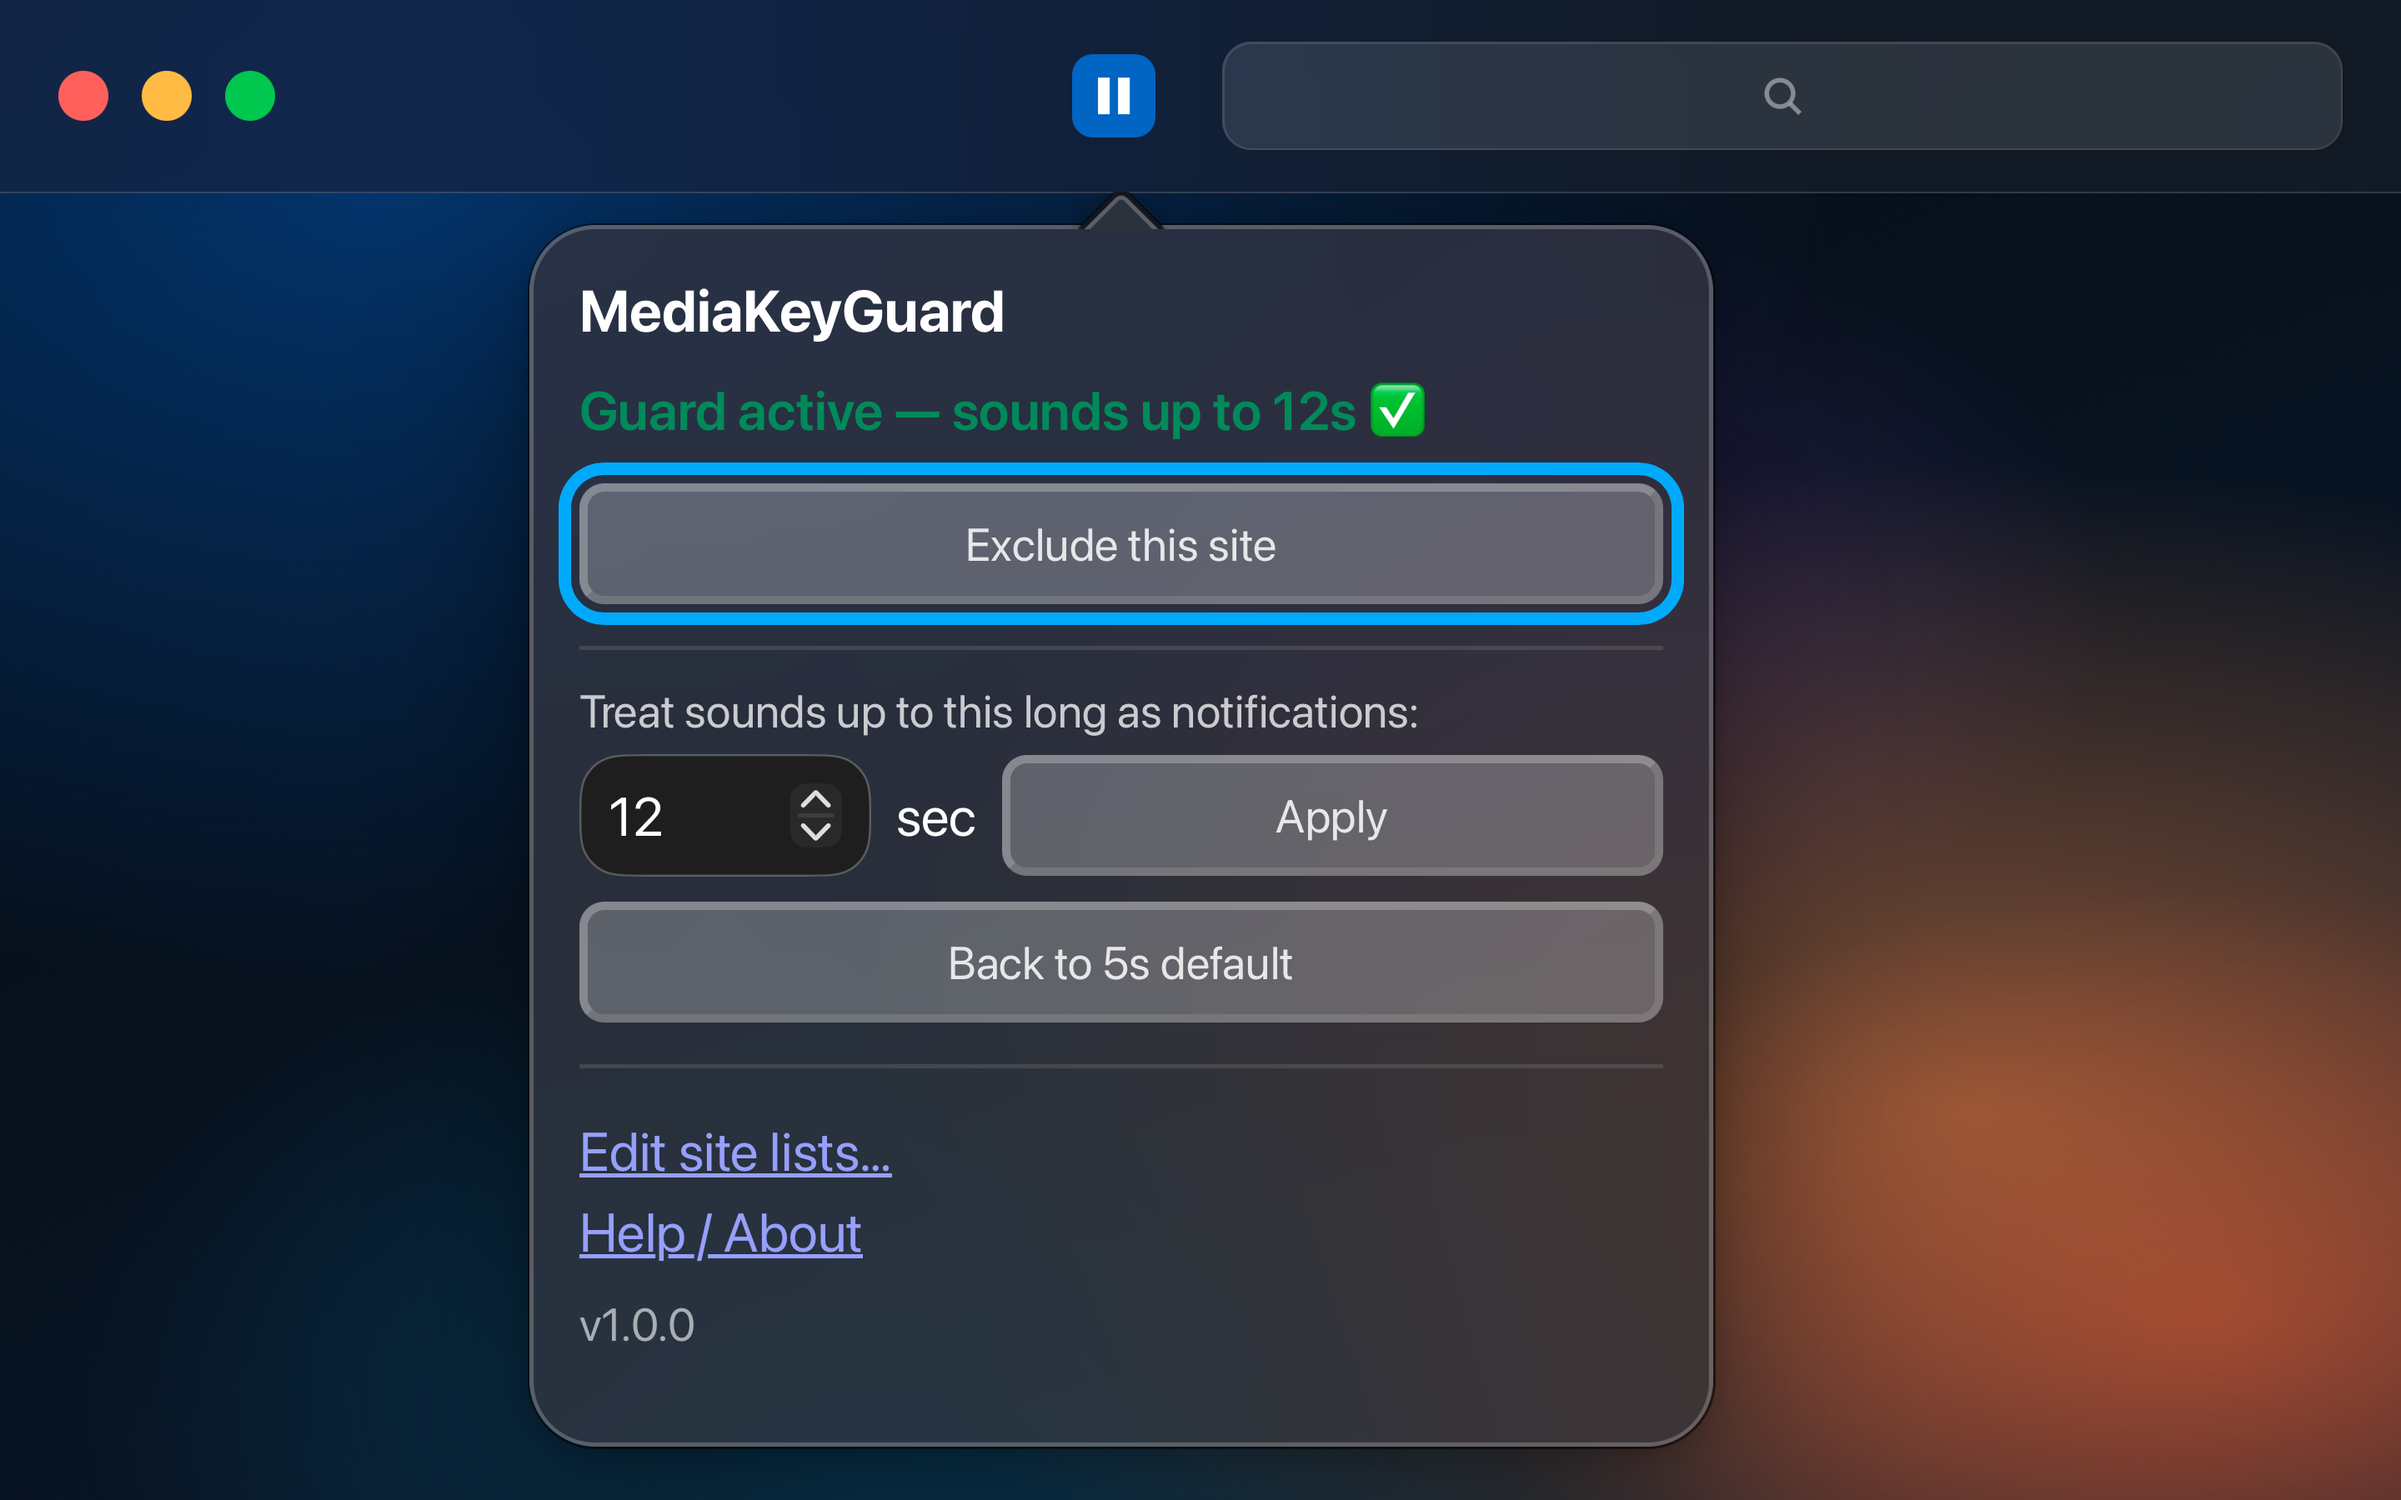
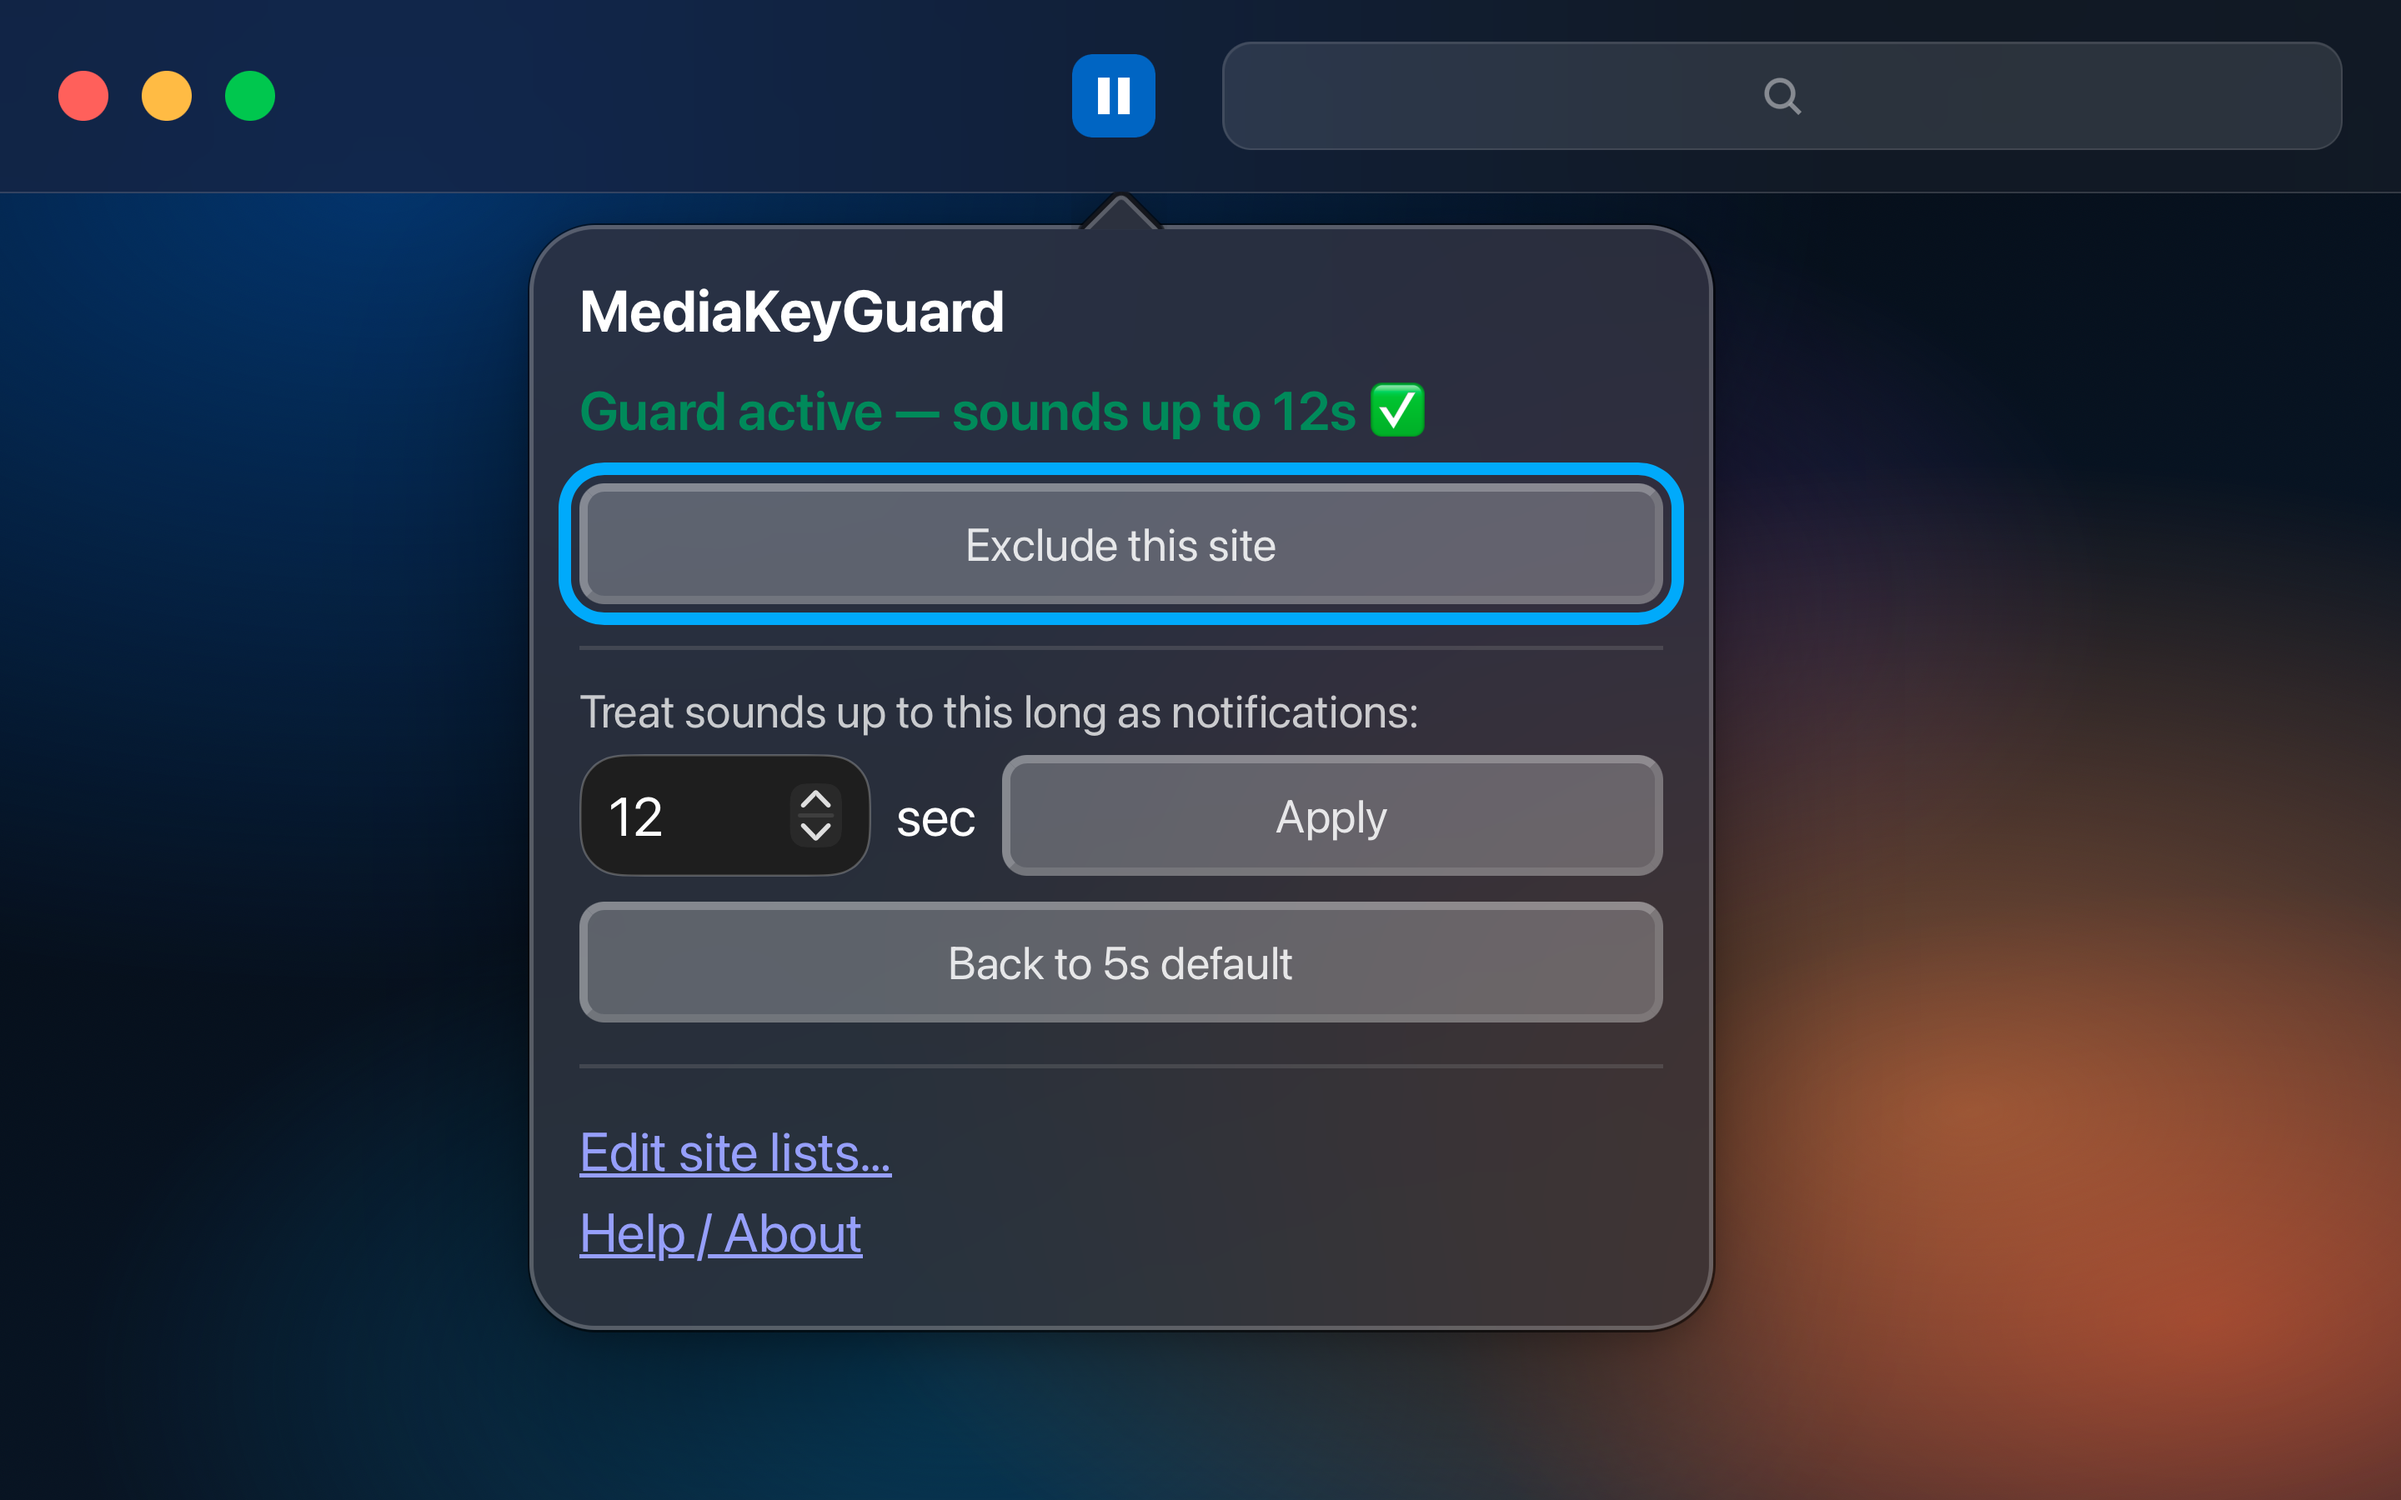
feat: drop the version footer from the popup
Not worth its pixels, and it kept the screenshots hostage to every
version bump. manifest.json still carries the stamped version.

Changed region(s): [[0.2188, 0.84, 0.7188, 0.9956]]

diff --git a/tools/shotcanvas-popup.html b/tools/shotcanvas-popup.html
@@ -13,9 +13,8 @@
 
   The popup is extension/popup.html's markup and CSS, re-rendered at final
   size rather than enlarged from a capture. The toolbar icon is the real icon
-  file and {{VERSION}} is stamped from Version.xcconfig by make-shots.sh, so
-  neither can drift from the shipped release. Only the state sentence is
-  hand-written — it comes from popup.js talking to Safari's tab API, which
+  file, so it cannot drift from the shipped release. Only the state sentence
+  is hand-written — it comes from popup.js talking to Safari's tab API, which
   cannot run here; keep it in step with render() in extension/popup.js.
 -->
 <style>
@@ -74,7 +73,6 @@
   .popup .row button { width: auto; flex: 1; margin: 0; }
   .popup .links { margin-top: 10px; border-top: 1px solid #8884; padding-top: 8px; }
   .popup .links a { display: block; margin: 4px 0; }
-  .popup #version { opacity: .6; font-size: 11px; margin-top: 8px; }
 
   /* ---- the panel macOS draws around it ------------------------------- */
   /* Only the panel: its glass comes from .glass in shotcanvas.css, its text
@@ -131,7 +129,6 @@
       <a href="#" id="options">Edit site lists…</a>
       <a href="https://github.com/Streamlining-Life/MediaKeyGuardForSafari#readme">Help / About</a>
     </div>
-    <p id="version">v{{VERSION}}</p>
   </div>
 </div>
 

diff --git a/extension/popup.html b/extension/popup.html
@@ -30,7 +30,6 @@
   .row button { width: auto; flex: 1; margin: 0; }
   .links { margin-top: 10px; border-top: 1px solid #8884; padding-top: 8px; }
   .links a { display: block; margin: 4px 0; }
-  #version { opacity: .6; font-size: 11px; margin-top: 8px; }
   #note { opacity: .75; font-size: 11px; }
 </style>
 </head>
@@ -52,7 +51,6 @@
   <a href="#" id="options">Edit site lists…</a>
   <a href="https://github.com/Streamlining-Life/MediaKeyGuardForSafari#readme" target="_blank" rel="noopener">Help / About</a>
 </div>
-<p id="version"></p>
 <script src="matcher.js"></script>
 <script src="popup.js"></script>
 </body>

diff --git a/extension/popup.js b/extension/popup.js
@@ -14,9 +14,6 @@
   const applyEl = document.getElementById('apply');
   const clearEl = document.getElementById('clear');
 
-  document.getElementById('version').textContent =
-    `v${api.runtime.getManifest().version}`;
-
   document.getElementById('options').addEventListener('click', (e) => {
     e.preventDefault();
     api.runtime.openOptionsPage();
